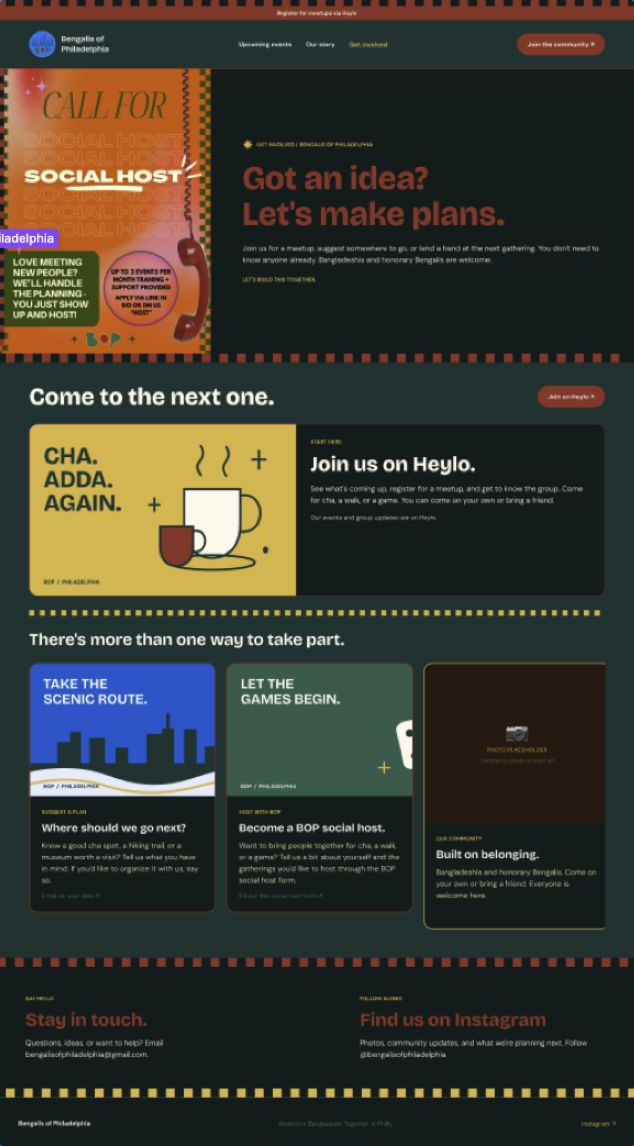
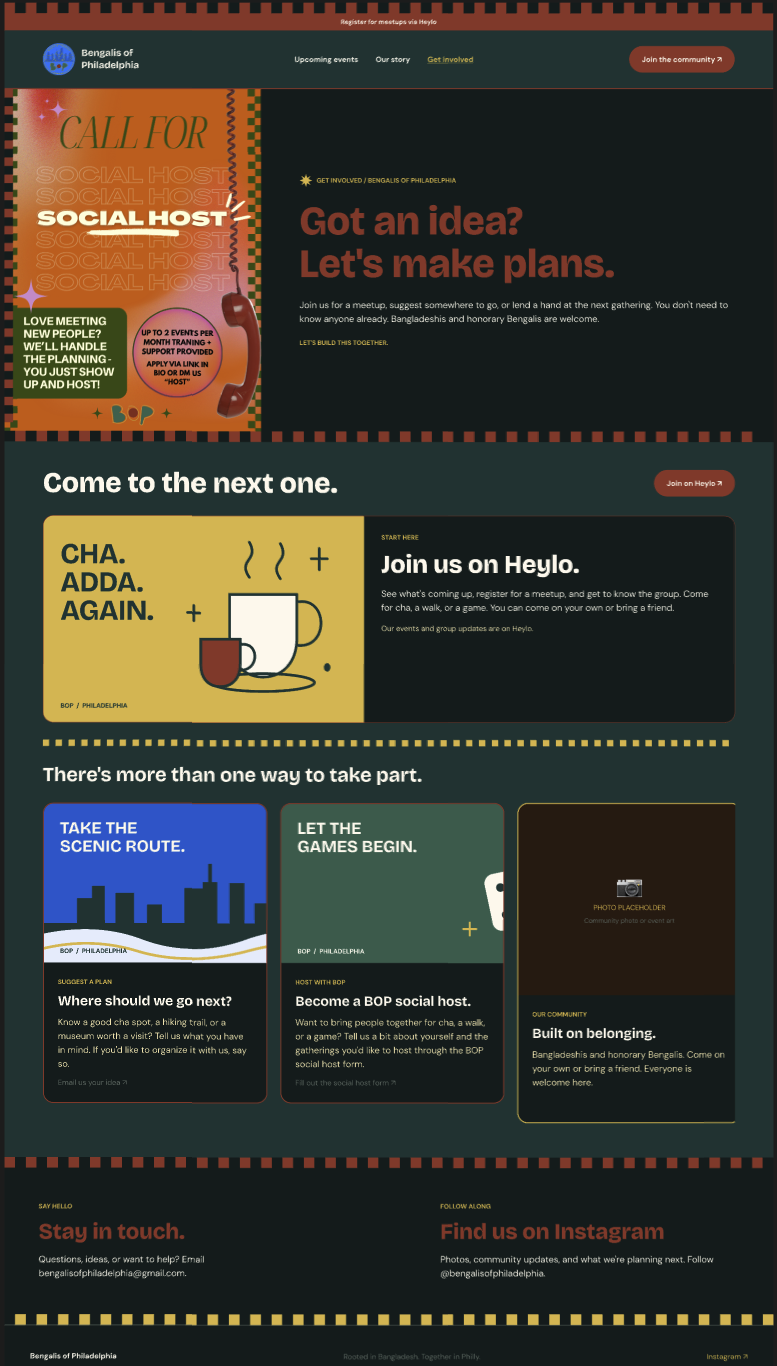
Refine Get involved from supplied design references

Changed region(s): [[0.0, 0.0, 1.0, 1.0]]

diff --git a/src/involved.css b/src/involved.css
@@ -1,0 +1,257 @@
+/* Get involved follows the supplied October design references. */
+.page-get-involved {
+  --ink: #163a38;
+  --deep: #0e1d1d;
+  --rust: #9e382c;
+  --coral: #cf6858;
+  background: var(--ink);
+}
+.page-get-involved .community-strip {
+  border-top: 20px solid transparent;
+  border-image: repeating-linear-gradient(
+      90deg,
+      var(--rust) 0 20px,
+      var(--deep) 20px 40px
+    )
+    20;
+  font-size: 12px;
+}
+.page-get-involved .site-header {
+  border-color: var(--rust);
+}
+.page-get-involved .header-inner {
+  min-height: 108px;
+}
+.page-get-involved .involved-hero-grid {
+  width: 100%;
+  max-width: none;
+}
+.page-get-involved .host-poster {
+  align-self: stretch;
+}
+.page-get-involved .host-poster img {
+  height: 100%;
+  object-fit: cover;
+}
+.page-get-involved .involved-intro {
+  padding: 64px clamp(32px, 5vw, 90px);
+}
+.page-get-involved .involved-intro h1 {
+  font-size: clamp(42px, 5.2vw, 80px);
+  letter-spacing: -0.035em;
+  line-height: 1.12;
+  text-wrap: initial;
+}
+.page-get-involved .involved-intro .intro {
+  max-width: 850px;
+  color: var(--cream);
+  font-size: 17px;
+  margin-top: 30px;
+}
+.page-get-involved .eyebrow {
+  letter-spacing: 0;
+  font-size: 12px;
+}
+.page-get-involved .build-together {
+  color: var(--gold);
+  margin-top: 24px;
+}
+.page-get-involved .checker {
+  height: 20px;
+  background: repeating-linear-gradient(
+    90deg,
+    var(--gold) 0 20px,
+    var(--deep) 20px 40px
+  );
+}
+.page-get-involved .checker-rust {
+  background: repeating-linear-gradient(
+    90deg,
+    var(--rust) 0 20px,
+    var(--deep) 20px 40px
+  );
+}
+.page-get-involved .involved-content {
+  padding-block: 52px 64px;
+}
+.page-get-involved .section-heading {
+  margin-bottom: 34px;
+}
+.page-get-involved .section-heading h2 {
+  font-size: clamp(32px, 3.6vw, 52px);
+}
+.page-get-involved .story-feature {
+  border: 1px solid var(--rust);
+}
+.page-get-involved .story-feature .artwork {
+  align-self: stretch;
+  height: 100%;
+  object-fit: contain;
+  aspect-ratio: 1.55;
+  background: var(--gold);
+}
+.page-get-involved .story-feature .card-body {
+  padding: 34px;
+}
+.page-get-involved .story-feature h3 {
+  font-size: clamp(30px, 3.2vw, 46px);
+}
+.page-get-involved .card-body p {
+  font-size: 17px;
+  color: #f2e3b5;
+}
+.page-get-involved .story-feature .card-body > p:not(.eyebrow) {
+  color: var(--cream);
+}
+.page-get-involved .card-body .eyebrow {
+  font-size: 12px;
+  color: var(--gold);
+}
+.page-get-involved .dot-divider {
+  height: 12px;
+  margin: 32px 0 36px;
+  background-size: auto;
+  background-image: repeating-linear-gradient(
+    90deg,
+    var(--gold) 0 12px,
+    transparent 12px 24px
+  );
+}
+.page-get-involved .subheading {
+  font-size: clamp(27px, 2.6vw, 36px);
+  margin-bottom: 34px;
+}
+.page-get-involved .involvement-card {
+  border: 2px solid var(--rust);
+}
+.page-get-involved .involvement-card .artwork {
+  aspect-ratio: 2;
+  object-fit: contain;
+}
+.page-get-involved .involvement-card h3 {
+  font-size: 26px;
+}
+.page-get-involved .involvement-card .card-body {
+  padding: 26px;
+}
+.page-get-involved .involvement-card .text-link {
+  color: var(--muted);
+}
+.page-get-involved .involvement-card .text-link:hover {
+  color: var(--gold);
+}
+.page-get-involved .belonging-card {
+  border-color: var(--gold);
+}
+.page-get-involved .belonging-message {
+  aspect-ratio: 1.4;
+  background: #301c0c;
+  justify-content: center;
+  flex-direction: column;
+  gap: 12px;
+  text-align: center;
+}
+.page-get-involved .belonging-message p {
+  font-size: 14px;
+  font-weight: 400;
+  color: var(--gold);
+}
+.page-get-involved .contact {
+  padding-block: 68px;
+}
+.page-get-involved .contact .two-columns {
+  gap: 9%;
+}
+.page-get-involved .contact h2 {
+  font-size: clamp(30px, 3vw, 42px);
+}
+.page-get-involved .contact p:not(.eyebrow) {
+  color: var(--cream);
+  font-size: 17px;
+  margin-bottom: 8px;
+}
+.page-get-involved .contact .text-link {
+  font-size: 16px;
+  color: var(--cream);
+}
+.page-get-involved .site-footer {
+  background: var(--deep);
+}
+@media (max-width: 1000px) {
+  .page-get-involved .involved-intro {
+    padding: 36px;
+  }
+  .page-get-involved .involved-intro h1 {
+    font-size: 45px;
+  }
+  .page-get-involved .involved-intro .intro {
+    font-size: 16px;
+  }
+  .page-get-involved .involvement-card .card-body {
+    padding: 22px;
+  }
+}
+@media (max-width: 800px) {
+  .page-get-involved .header-inner {
+    min-height: 84px;
+  }
+  .page-get-involved .involved-hero-grid {
+    grid-template-columns: 38% 62%;
+  }
+  .page-get-involved .host-poster {
+    align-self: center;
+  }
+  .page-get-involved .involved-intro {
+    padding: 30px 24px;
+  }
+  .page-get-involved .involved-intro h1 {
+    font-size: 36px;
+  }
+  .page-get-involved .story-feature .artwork {
+    aspect-ratio: 2;
+    height: auto;
+  }
+  .page-get-involved .belonging-message {
+    aspect-ratio: auto;
+  }
+}
+@media (max-width: 540px) {
+  .page-get-involved .involved-hero-grid {
+    grid-template-columns: 1fr;
+  }
+  .page-get-involved .host-poster {
+    max-width: 100%;
+    margin: 0;
+  }
+  .page-get-involved .host-poster img {
+    height: auto;
+  }
+  .page-get-involved .involved-intro {
+    padding: 36px 20px;
+  }
+  .page-get-involved .involved-intro h1 {
+    font-size: clamp(34px, 9vw, 46px);
+  }
+  .page-get-involved .involved-intro .eyebrow {
+    font-size: 10px;
+  }
+  .page-get-involved .involved-content,
+  .page-get-involved .contact {
+    padding-block: 36px;
+  }
+  .page-get-involved .story-feature .card-body {
+    padding: 24px;
+  }
+  .page-get-involved .card-body p {
+    font-size: 16px;
+  }
+  .page-get-involved .belonging-message {
+    aspect-ratio: 1.5;
+  }
+  .page-get-involved .contact .two-columns {
+    gap: 36px;
+  }
+  .page-get-involved .contact .text-link {
+    font-size: 14px;
+  }
+}

diff --git a/src/pages/Involved.tsx b/src/pages/Involved.tsx
@@ -9,8 +9,8 @@ export function Involved() {
             <img
               src={imageUrl("social-host.png")}
               alt="Call for social hosts. Love meeting new people? BOP handles the planning. Apply through the social-host form."
-              width="480"
-              height="640"
+              width="852"
+              height="1069"
             />
           </a>
           <div className="involved-intro">
@@ -89,7 +89,8 @@ export function Involved() {
                 <h3>Become a BOP social host.</h3>
                 <p>
                   Want to bring people together for cha, a walk, or a game? Tell
-                  us a bit about yourself and the gatherings you’d like to host.
+                  us a bit about yourself and the gatherings you’d like to host
+                  through the BOP social host form.
                 </p>
                 <a className="text-link" href={links.host}>
                   Fill out the social-host form{" "}
@@ -99,21 +100,15 @@ export function Involved() {
             </article>
             <article className="involvement-card belonging-card">
               <div className="belonging-message">
-                <span aria-hidden="true">✷</span>
-                <p>
-                  Come on your own.
-                  <br />
-                  Bring a friend.
-                  <br />
-                  You’re welcome here.
-                </p>
+                <span aria-hidden="true">📷</span>
+                <p>Community photos coming soon.</p>
               </div>
               <div className="card-body">
                 <p className="eyebrow">Our community</p>
                 <h3>Built on belonging.</h3>
                 <p>
-                  Bangladeshis and honorary Bengalis. A familiar language, a
-                  shared interest, or just a reason to get out of the house.
+                  Bangladeshis and honorary Bengalis. Come on your own or bring
+                  a friend. Everyone is welcome here.
                 </p>
                 <a className="text-link" href="#/our-story">
                   Read our story <span aria-hidden="true">↗</span>

diff --git a/src/main.tsx b/src/main.tsx
@@ -12,6 +12,7 @@ import type { Page } from "./data/content";
 import "./style.css";
 import "@fontsource/bebas-neue/latin-400.css";
 import "./home.css";
+import "./involved.css";
 
 function currentPage(): Page {
   const route = window.location.hash.replace(/^#\/?/, "").replace(/\/$/, "");

diff --git a/docs/implementation-status.md b/docs/implementation-status.md
@@ -23,7 +23,6 @@ are actual Figma artwork exports, not redraws, but are visibly soft when enlarge
 | public/images/cha.png | 10:144 | 189 x 94 |
 | public/images/walk.png | 10:157 | 189 x 94 |
 | public/images/games.png | 10:165 | 189 x 94 |
-| public/images/social-host.png | 141:472 | 142 x 189 |
 
 Replace these with full-resolution originals under the same names when available.
 The logo is the original user-supplied JPEG, 1290 x 1281. Font licenses are in
@@ -70,3 +69,11 @@ calendar actions retain the user-requested Heylo labels. Existing category filte
 remain functional. Updates still use Heylo rather than an unconnected email form.
 The original artwork export previews remain low resolution; the screenshots are
 stored as references, not used as page backgrounds or cropped implementation assets.
+
+## Get involved reference refinement
+
+Updated the full-width flyer hero, teal panels, checker borders, Heylo feature,
+participation cards, and contact section from the supplied screenshots. The host
+flyer is now the supplied 852 x 1069 original. Rust headings are lightened for
+readability; links retain visible underlines and readable colors. The community
+photo slot is an honest empty state until a photo is supplied.

diff --git a/docs/design/README.md b/docs/design/README.md
@@ -50,3 +50,11 @@ to sRGB first: Home green #2F6755, red #C8122E, cream #FFF9EE, gold #E3BC53.
 Do not copy collaborator markers, invisible CTA labels, or internal archive notes.
 The existing Heylo links remain authoritative. The email signup requires a real
 service before enabling it; the current demo uses a working Heylo updates CTA.
+
+## User-supplied Get involved references
+
+The updated Get involved overview and four section screenshots take precedence
+over the previous capture. Source metadata is in the manifest. The standalone
+852 x 1069 host flyer is saved as `public/images/social-host.png` and used directly.
+The other screenshots remain references only. Dark teal and rust are scoped to
+Get involved so the Home palette remains unchanged.
